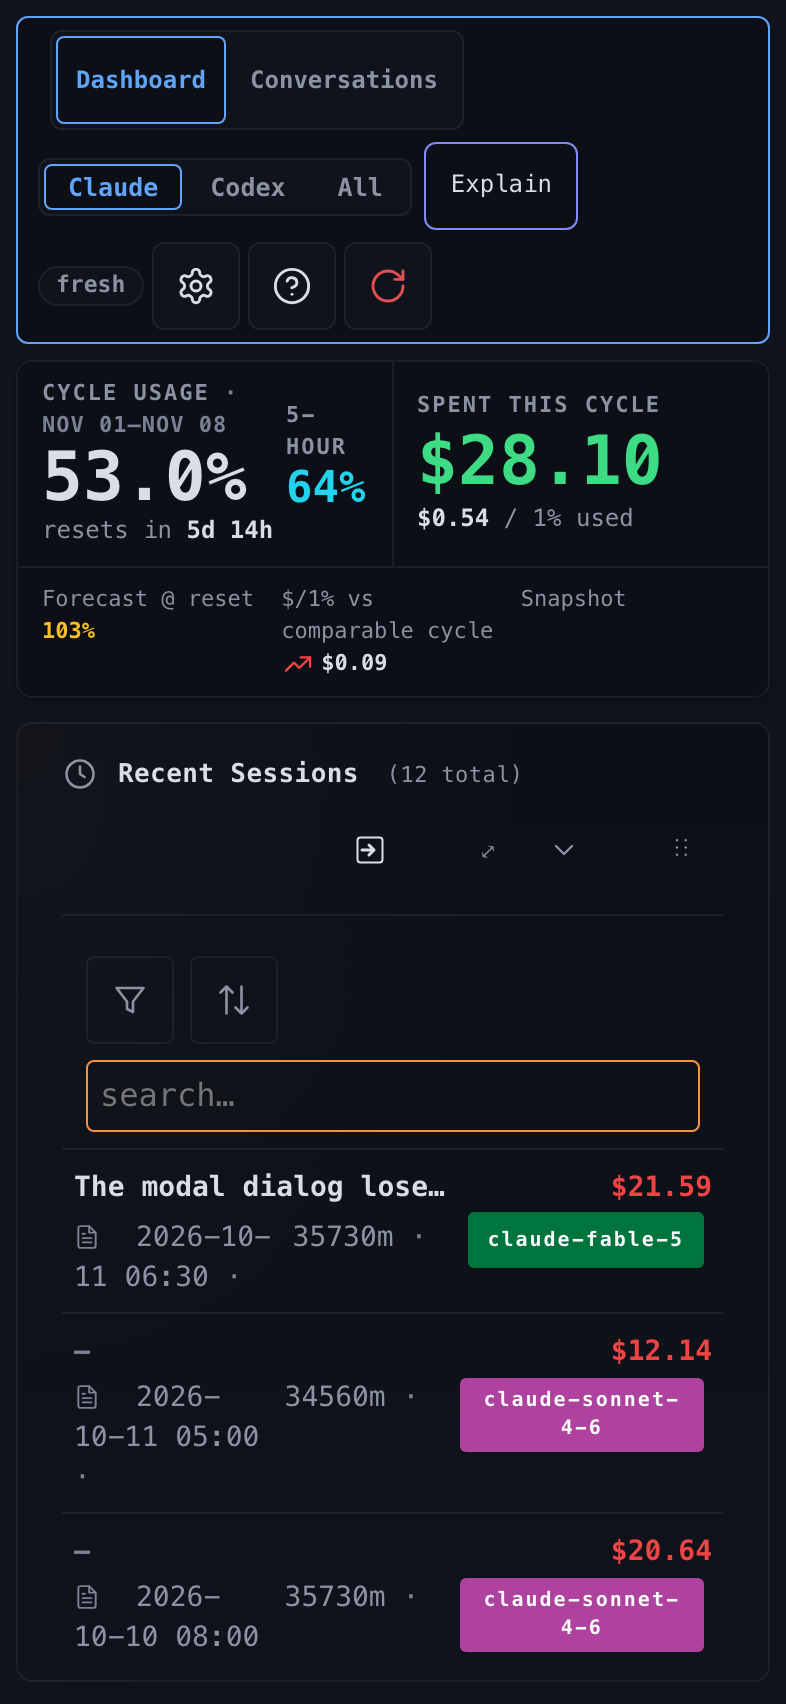
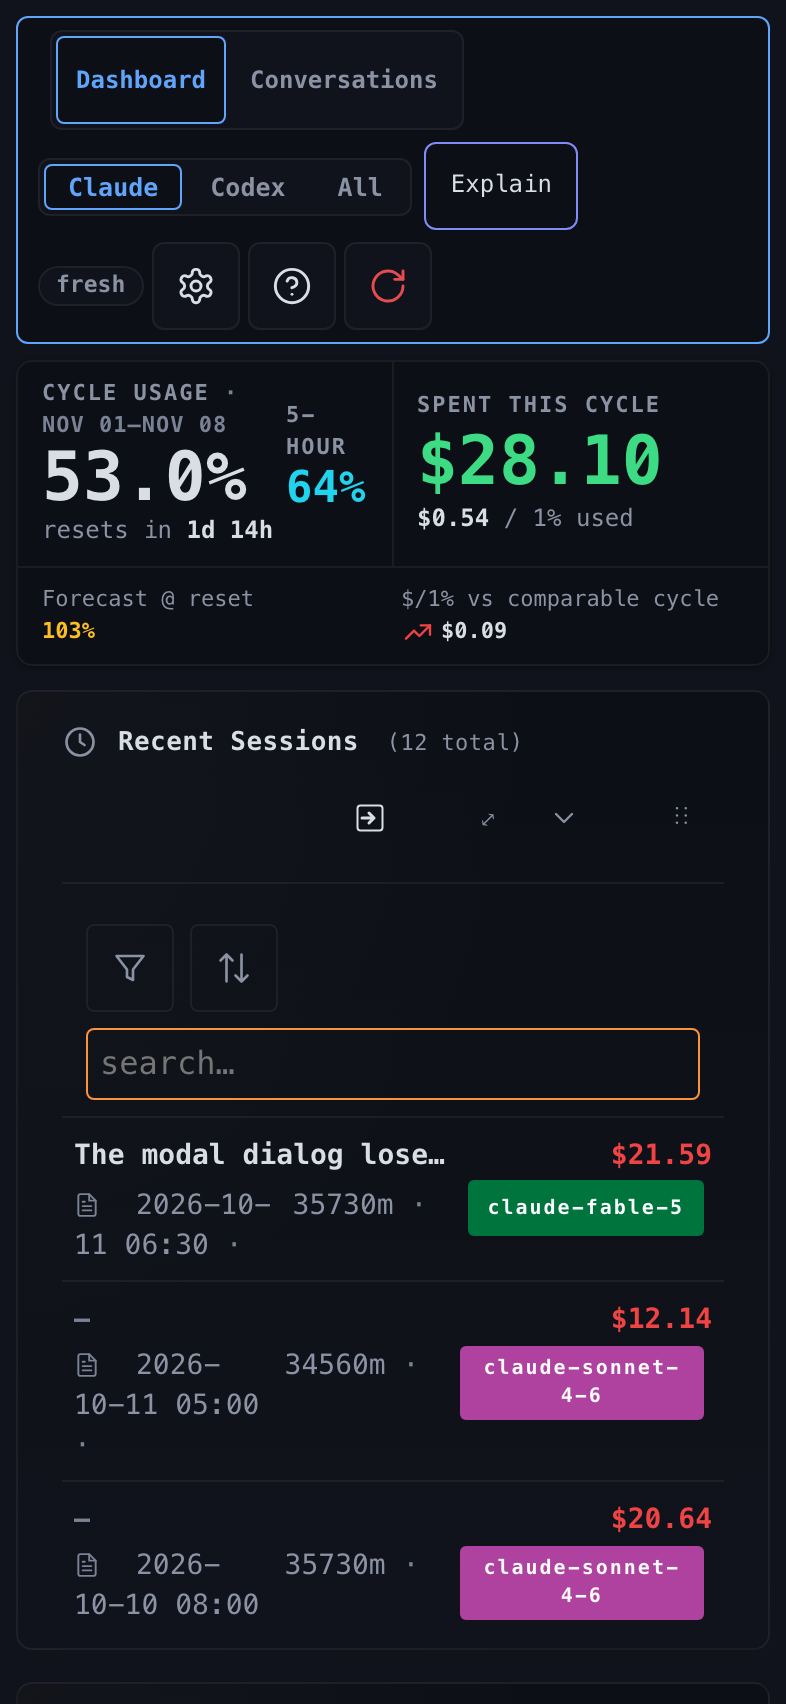
readme refresh for v1.118.2

diff --git a/README.md b/README.md
@@ -30,15 +30,14 @@ Your Claude Code plan meters you with a percentage that creeps up all week. ccta
 </p>
 
 <!-- cctally:latest-stable:begin -->
-**Latest stable: v1.117.2** (2026-11-03)
+**Latest stable: v1.118.2** (2026-11-07)
 
-Highlights from the `v1.116.1` to `v1.117.2` stable upgrade:
+Highlights from the `v1.117.2` to `v1.118.2` stable upgrade:
 
-- With more than one Claude account, the `cctally dashboard` Current Week card and modal show one account's cycle, milestones, spend and `$/1%` beside that account's label, and the older/newer cycle buttons stay on that account.
-- `cctally five-hour-breakdown` and the dashboard's five-hour milestones show `, ` (`null` in `--json`) instead of a weekly percentage that a weekly credit later retired.
-- With more than one Claude account, the `cctally dashboard` All view shows its combined spend headline, summing each account's current cycle, instead of usually leaving it out.
+- The Codex hooks that `cctally setup` installs no longer re-read the whole quota history to resolve reset anchors, so recording new Codex usage stays fast on a long history.
+- The dashboard and TUI now regroup a project within about a minute after a git worktree is removed, a repository is created or moved, or a folder becomes a repository; previously they kept the old grouping until restarted.
 
-[See every change in this stable upgrade](https://github.com/omrikais/cctally/releases/tag/v1.117.2)
+[See every change in this stable upgrade](https://github.com/omrikais/cctally/releases/tag/v1.118.2)
 <!-- cctally:latest-stable:end -->
 
 ## Quick start
